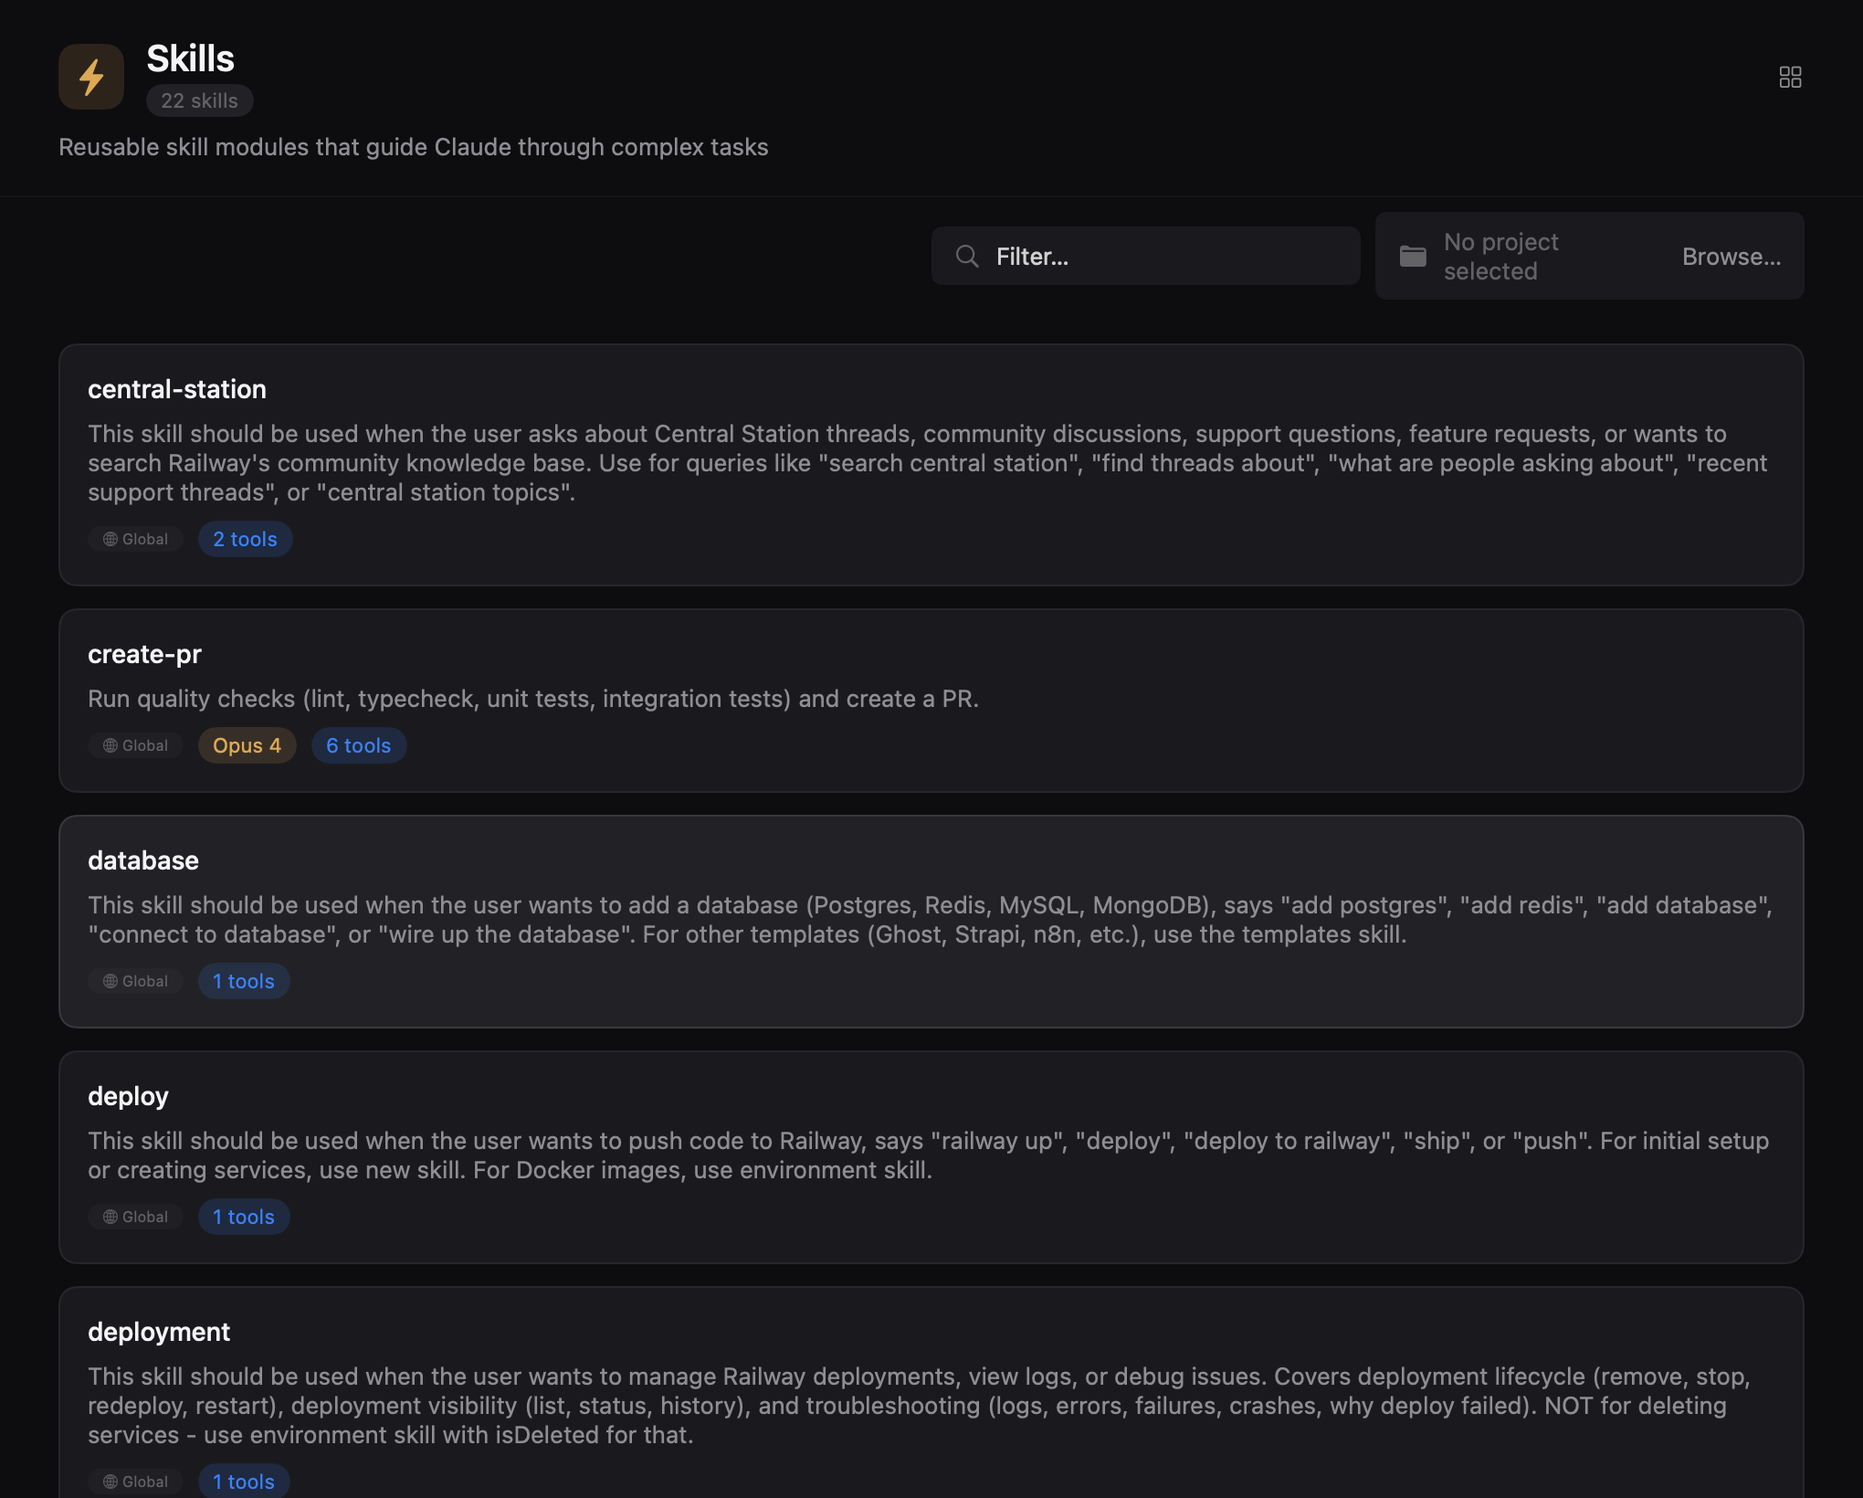
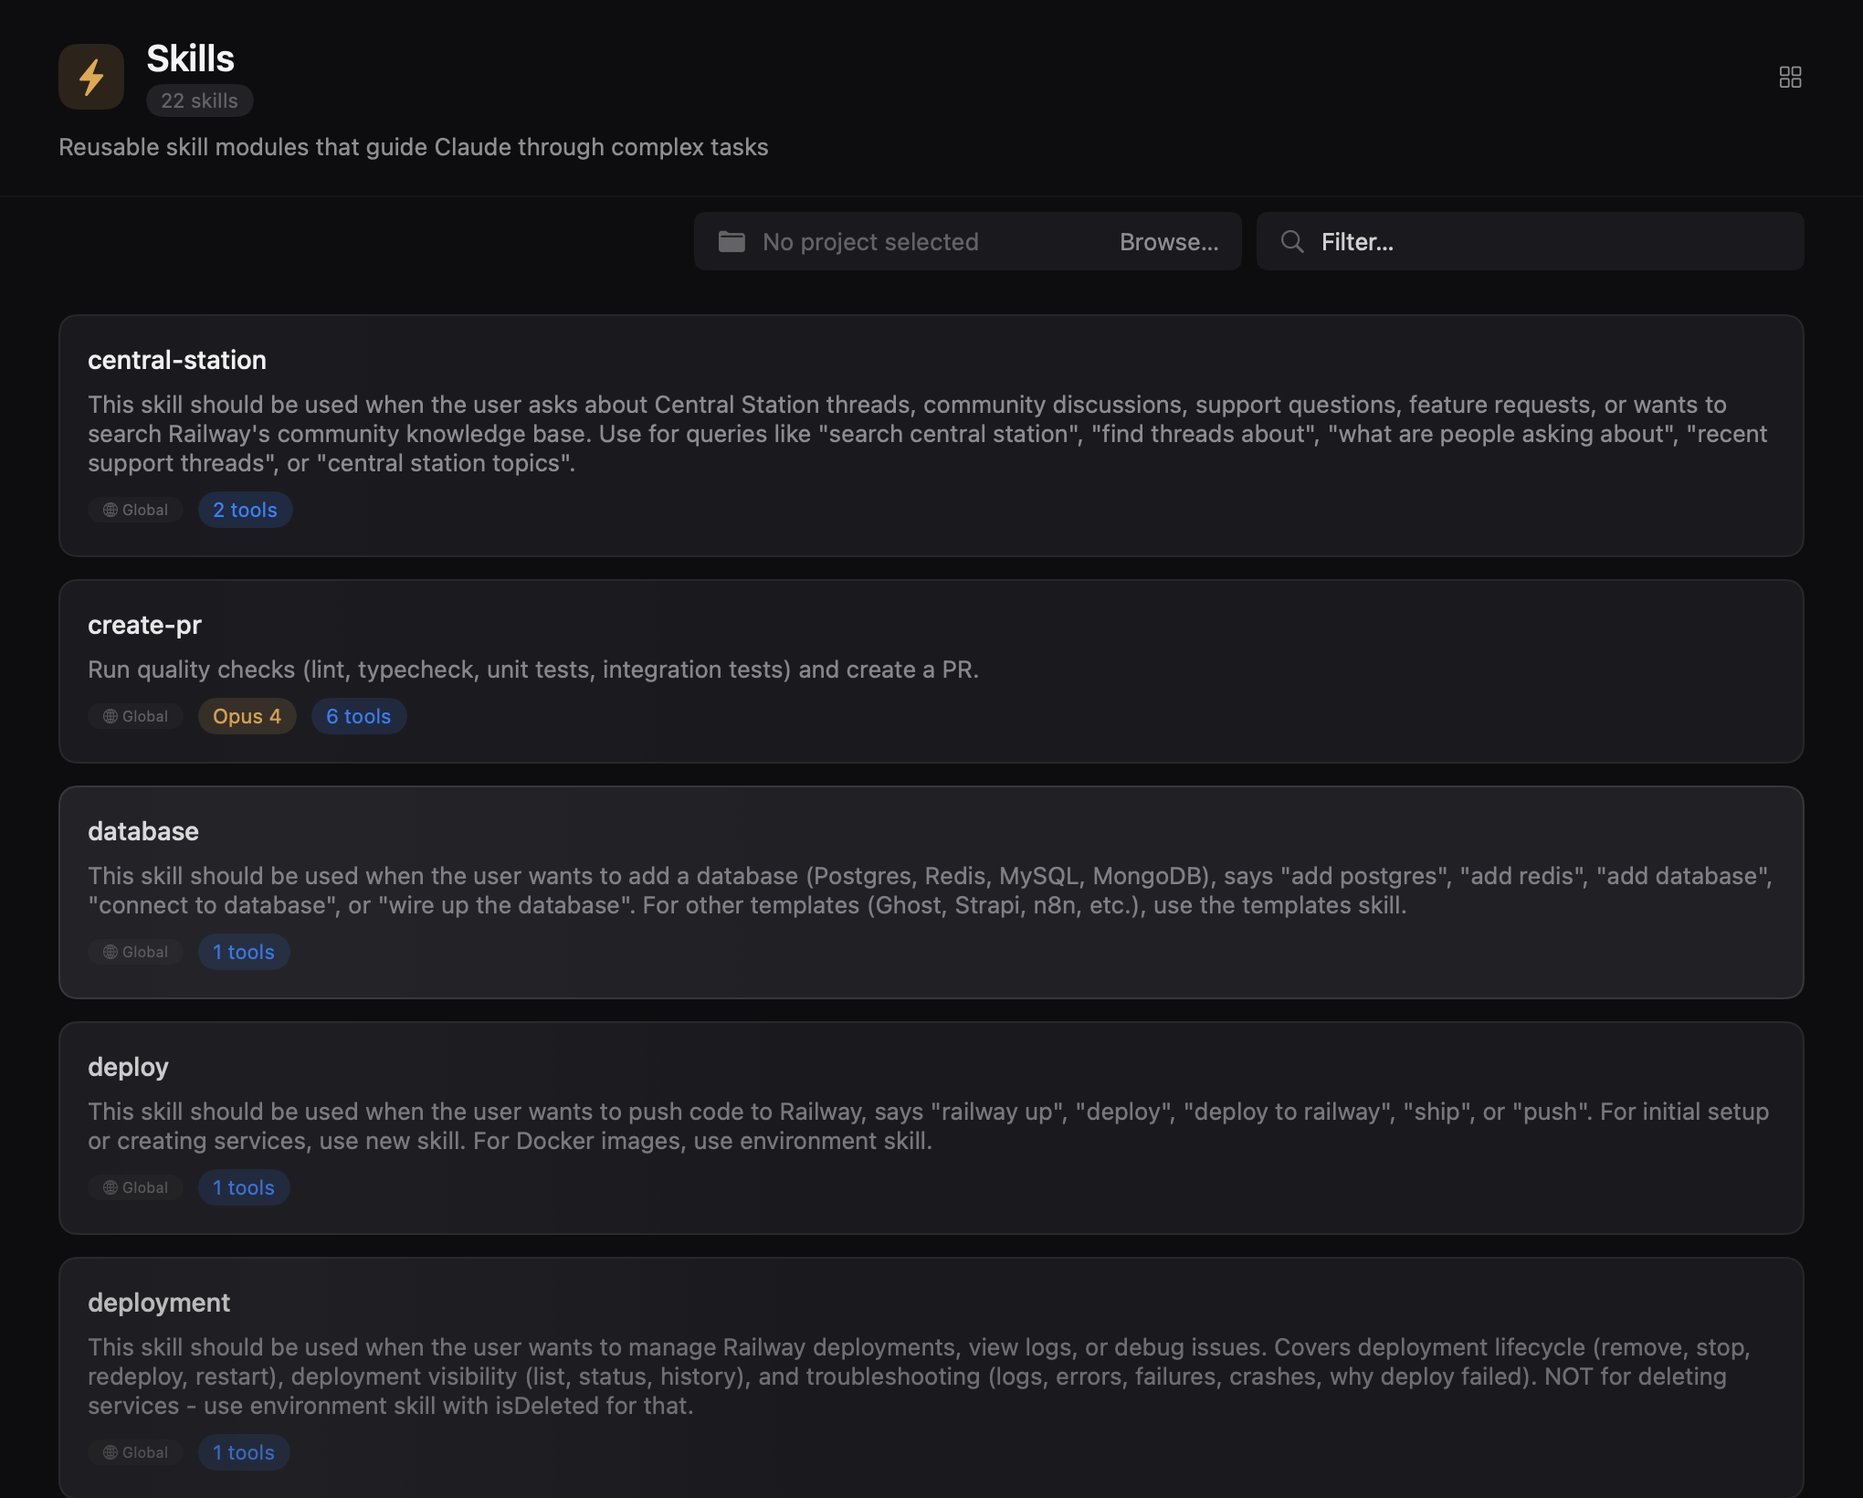
Add filter text highlighting and fix config toolbar layout (#33)
* Add minimum width to filter bar and project picker to prevent squishing

* Apply 25% right-aligned filter bar with minWidth to SubAgents

* Add filter text highlighting and fix card padding alignment

diff --git a/Poirot/Sources/Views/Project/ProjectSessionsView.swift b/Poirot/Sources/Views/Project/ProjectSessionsView.swift
@@ -6,14 +6,53 @@ struct ProjectSessionsView: View {
     private var appState
     @State
     private var isRevealed = false
+    @State
+    private var filterQuery = ""
+
+    private var filteredSessions: [Session] {
+        let q = filterQuery.trimmingCharacters(in: .whitespaces)
+        guard !q.isEmpty else { return project.sessions }
+        return project.sessions
+            .compactMap { session -> (Session, Int)? in
+                let best = max(
+                    HighlightedText.fuzzyMatch(session.title, query: q)?.score ?? 0,
+                    HighlightedText.fuzzyMatch(session.preview ?? "", query: q)?.score ?? 0
+                )
+                return best > 0 ? (session, best) : nil
+            }
+            .sorted { $0.1 > $1.1 }
+            .map(\.0)
+    }
 
     var body: some View {
         VStack(alignment: .leading, spacing: 0) {
             header
-            sessionsContent
+
+            if !project.sessions.isEmpty {
+                HStack(spacing: 0) {
+                    Spacer().frame(maxWidth: .infinity)
+                    Spacer().frame(maxWidth: .infinity)
+                    Spacer().frame(maxWidth: .infinity)
+                    ConfigFilterField(searchQuery: $filterQuery)
+                        .frame(minWidth: 300, maxWidth: .infinity)
+                }
+                .padding(.horizontal, PoirotTheme.Spacing.xxl)
+                .padding(.vertical, PoirotTheme.Spacing.sm)
+            }
+
+            if filteredSessions.isEmpty, !filterQuery.isEmpty {
+                ConfigEmptyState(
+                    icon: "magnifyingglass",
+                    message: "No sessions match \"\(filterQuery)\"",
+                    hint: "Try a different search term"
+                )
+            } else {
+                sessionsContent
+            }
         }
         .background(PoirotTheme.Colors.bgApp)
         .task(id: project.id) {
+            filterQuery = ""
             isRevealed = false
             try? await Task.sleep(for: .milliseconds(50))
             withAnimation(.easeOut(duration: 0.4)) {
@@ -79,7 +118,7 @@ struct ProjectSessionsView: View {
                 ForEach(0 ..< 2, id: \.self) { column in
                     LazyVStack(spacing: PoirotTheme.Spacing.lg) {
                         ForEach(sessionsForColumn(column), id: \.element.id) { index, session in
-                            SessionCard(session: session)
+                            SessionCard(session: session, filterQuery: filterQuery)
                                 .shimmerReveal(
                                     isRevealed: isRevealed,
                                     delay: Double(min(index, 7)) * 0.04,
@@ -96,7 +135,7 @@ struct ProjectSessionsView: View {
     }
 
     private func sessionsForColumn(_ column: Int) -> [(offset: Int, element: Session)] {
-        Array(project.sessions.enumerated()).filter { $0.offset % 2 == column }
+        Array(filteredSessions.enumerated()).filter { $0.offset % 2 == column }
     }
 
     // MARK: - List
@@ -104,8 +143,8 @@ struct ProjectSessionsView: View {
     private var sessionsList: some View {
         ScrollView {
             LazyVStack(alignment: .leading, spacing: PoirotTheme.Spacing.md) {
-                ForEach(Array(project.sessions.enumerated()), id: \.element.id) { index, session in
-                    SessionListRow(session: session)
+                ForEach(Array(filteredSessions.enumerated()), id: \.element.id) { index, session in
+                    SessionListRow(session: session, filterQuery: filterQuery)
                         .shimmerReveal(
                             isRevealed: isRevealed,
                             delay: Double(min(index, 9)) * 0.03,
@@ -124,6 +163,7 @@ struct ProjectSessionsView: View {
 
 private struct SessionCard: View {
     let session: Session
+    var filterQuery: String = ""
     @Environment(AppState.self)
     private var appState
     @State
@@ -138,14 +178,14 @@ private struct SessionCard: View {
             appState.selectedSession = session
         } label: {
             VStack(alignment: .leading, spacing: PoirotTheme.Spacing.sm) {
-                Text(session.title)
+                Text(HighlightedText.fuzzyAttributedString(session.title, query: filterQuery))
                     .font(PoirotTheme.Typography.bodyMedium)
                     .foregroundStyle(PoirotTheme.Colors.textPrimary)
                     .lineLimit(2)
                     .multilineTextAlignment(.leading)
 
                 if let preview = session.preview {
-                    Text(preview)
+                    Text(HighlightedText.fuzzyAttributedString(preview, query: filterQuery))
                         .font(PoirotTheme.Typography.caption)
                         .foregroundStyle(PoirotTheme.Colors.textSecondary)
                         .lineLimit(4)
@@ -168,6 +208,7 @@ private struct SessionCard: View {
 
 private struct SessionListRow: View {
     let session: Session
+    var filterQuery: String = ""
     @Environment(AppState.self)
     private var appState
     @State
@@ -182,13 +223,13 @@ private struct SessionListRow: View {
             appState.selectedSession = session
         } label: {
             VStack(alignment: .leading, spacing: PoirotTheme.Spacing.sm) {
-                Text(session.title)
+                Text(HighlightedText.fuzzyAttributedString(session.title, query: filterQuery))
                     .font(PoirotTheme.Typography.bodyMedium)
                     .foregroundStyle(PoirotTheme.Colors.textPrimary)
                     .lineLimit(1)
 
                 if let preview = session.preview {
-                    Text(preview)
+                    Text(HighlightedText.fuzzyAttributedString(preview, query: filterQuery))
                         .font(PoirotTheme.Typography.caption)
                         .foregroundStyle(PoirotTheme.Colors.textSecondary)
                         .lineLimit(2)

diff --git a/Poirot/Sources/Views/Config/SubAgentsListView.swift b/Poirot/Sources/Views/Config/SubAgentsListView.swift
@@ -35,9 +35,15 @@ struct SubAgentsListView: View {
             )
 
             if !SubAgent.builtIn.isEmpty {
-                ConfigFilterField(searchQuery: $filterQuery)
-                    .padding(.horizontal, PoirotTheme.Spacing.xxxl)
-                    .padding(.vertical, PoirotTheme.Spacing.sm)
+                HStack(spacing: 0) {
+                    Spacer().frame(maxWidth: .infinity)
+                    Spacer().frame(maxWidth: .infinity)
+                    Spacer().frame(maxWidth: .infinity)
+                    ConfigFilterField(searchQuery: $filterQuery)
+                        .frame(minWidth: 300, maxWidth: .infinity)
+                }
+                .padding(.horizontal, PoirotTheme.Spacing.xxxl)
+                .padding(.vertical, PoirotTheme.Spacing.sm)
             }
 
             if filteredAgents.isEmpty, !filterQuery.isEmpty {
@@ -107,7 +113,7 @@ struct SubAgentsListView: View {
 
                 LazyVStack(spacing: PoirotTheme.Spacing.md) {
                     ForEach(Array(filteredAgents.enumerated()), id: \.element.id) { index, agent in
-                        SubAgentCard(agent: agent)
+                        SubAgentCard(agent: agent, filterQuery: filterQuery)
                             .shimmerReveal(
                                 isRevealed: isRevealed,
                                 delay: Double(min(index, 9)) * 0.03,

diff --git a/Poirot/Sources/Views/Config/ModelsListView.swift b/Poirot/Sources/Views/Config/ModelsListView.swift
@@ -70,10 +70,10 @@ struct ModelsListView: View {
             Spacer()
                 .frame(maxWidth: .infinity)
             HStack(spacing: PoirotTheme.Spacing.sm) {
-                ConfigFilterField(searchQuery: $filterQuery)
-                    .frame(maxWidth: .infinity)
                 ConfigProjectPicker()
-                    .frame(maxWidth: .infinity)
+                    .frame(minWidth: 300, maxWidth: .infinity)
+                ConfigFilterField(searchQuery: $filterQuery)
+                    .frame(minWidth: 300, maxWidth: .infinity)
             }
             .frame(maxWidth: .infinity)
         }
@@ -139,6 +139,7 @@ struct ModelsListView: View {
                     ForEach(Array(filteredModels.enumerated()), id: \.element) { index, model in
                         ModelCard(
                             name: model,
+                            filterQuery: filterQuery,
                             isDefault: model == (currentDefault ?? provider.defaultModelName),
                             isProjectDefault: model == projectModel,
                             hasProject: appState.configProjectPath != nil,

diff --git a/Poirot/Sources/Views/Config/MCPServersListView.swift b/Poirot/Sources/Views/Config/MCPServersListView.swift
@@ -93,10 +93,10 @@ struct MCPServersListView: View {
             Spacer()
                 .frame(maxWidth: .infinity)
             HStack(spacing: PoirotTheme.Spacing.sm) {
-                ConfigFilterField(searchQuery: $filterQuery)
-                    .frame(maxWidth: .infinity)
                 ConfigProjectPicker()
-                    .frame(maxWidth: .infinity)
+                    .frame(minWidth: 300, maxWidth: .infinity)
+                ConfigFilterField(searchQuery: $filterQuery)
+                    .frame(minWidth: 300, maxWidth: .infinity)
             }
             .frame(maxWidth: .infinity)
         }
@@ -159,6 +159,7 @@ struct MCPServersListView: View {
                     ForEach(Array(filteredServers.enumerated()), id: \.element.id) { index, server in
                         MCPServerCard(
                             server: server,
+                            filterQuery: filterQuery,
                             onOpenInEditor: { openServerInEditor(server) },
                             onShowInFinder: { showSettingsInFinder() },
                             onRemove: { removeServer(server) }

diff --git a/Poirot/Sources/Views/Config/CommandsListView.swift b/Poirot/Sources/Views/Config/CommandsListView.swift
@@ -175,10 +175,10 @@ struct CommandsListView: View {
             Spacer()
                 .frame(maxWidth: .infinity)
             HStack(spacing: PoirotTheme.Spacing.sm) {
-                ConfigFilterField(searchQuery: $filterQuery)
-                    .frame(maxWidth: .infinity)
                 ConfigProjectPicker()
-                    .frame(maxWidth: .infinity)
+                    .frame(minWidth: 300, maxWidth: .infinity)
+                ConfigFilterField(searchQuery: $filterQuery)
+                    .frame(minWidth: 300, maxWidth: .infinity)
             }
             .frame(maxWidth: .infinity)
         }
@@ -228,7 +228,7 @@ struct CommandsListView: View {
         ScrollView {
             LazyVStack(spacing: PoirotTheme.Spacing.md) {
                 ForEach(Array(filteredCommands.enumerated()), id: \.element.id) { index, command in
-                    CommandCard(command: command) {
+                    CommandCard(command: command, filterQuery: filterQuery) {
                         selectCommand(command)
                     }
                     .shimmerReveal(

diff --git a/Poirot/Sources/Views/Config/OutputStylesListView.swift b/Poirot/Sources/Views/Config/OutputStylesListView.swift
@@ -161,10 +161,10 @@ struct OutputStylesListView: View {
             Spacer()
                 .frame(maxWidth: .infinity)
             HStack(spacing: PoirotTheme.Spacing.sm) {
-                ConfigFilterField(searchQuery: $filterQuery)
-                    .frame(maxWidth: .infinity)
                 ConfigProjectPicker()
-                    .frame(maxWidth: .infinity)
+                    .frame(minWidth: 300, maxWidth: .infinity)
+                ConfigFilterField(searchQuery: $filterQuery)
+                    .frame(minWidth: 300, maxWidth: .infinity)
             }
             .frame(maxWidth: .infinity)
         }
@@ -214,7 +214,7 @@ struct OutputStylesListView: View {
         ScrollView {
             LazyVStack(spacing: PoirotTheme.Spacing.md) {
                 ForEach(Array(filteredStyles.enumerated()), id: \.element.id) { index, style in
-                    OutputStyleCard(style: style) {
+                    OutputStyleCard(style: style, filterQuery: filterQuery) {
                         selectStyle(style)
                     }
                     .shimmerReveal(

diff --git a/Poirot/Sources/Views/Config/SkillsListView.swift b/Poirot/Sources/Views/Config/SkillsListView.swift
@@ -163,10 +163,10 @@ struct SkillsListView: View {
             Spacer()
                 .frame(maxWidth: .infinity)
             HStack(spacing: PoirotTheme.Spacing.sm) {
-                ConfigFilterField(searchQuery: $filterQuery)
-                    .frame(maxWidth: .infinity)
                 ConfigProjectPicker()
-                    .frame(maxWidth: .infinity)
+                    .frame(minWidth: 300, maxWidth: .infinity)
+                ConfigFilterField(searchQuery: $filterQuery)
+                    .frame(minWidth: 300, maxWidth: .infinity)
             }
             .frame(maxWidth: .infinity)
         }
@@ -216,7 +216,7 @@ struct SkillsListView: View {
         ScrollView {
             LazyVStack(spacing: PoirotTheme.Spacing.md) {
                 ForEach(Array(filteredSkills.enumerated()), id: \.element.id) { index, skill in
-                    SkillCard(skill: skill) {
+                    SkillCard(skill: skill, filterQuery: filterQuery) {
                         selectSkill(skill)
                     }
                     .shimmerReveal(

diff --git a/PoirotTests/Screenshots/ScreenshotTests_Todos.swift b/PoirotTests/Screenshots/ScreenshotTests_Todos.swift
@@ -17,7 +17,7 @@ struct ScreenshotTests_Todos {
             size: ScreenshotSize.mainContent,
             named: "testTodosList",
             record: isRecording,
-            delay: 1
+            delay: 2
         )
     }
 
@@ -32,7 +32,7 @@ struct ScreenshotTests_Todos {
             size: ScreenshotSize.fullApp,
             named: "testTodosFullApp",
             record: isRecording,
-            delay: 1
+            delay: 2
         )
     }
 
@@ -52,7 +52,7 @@ struct ScreenshotTests_Todos {
             size: ScreenshotSize.fullApp,
             named: "testTodosFullAppSolarized",
             record: isRecording,
-            delay: 1
+            delay: 2
         )
     }
 
@@ -72,7 +72,7 @@ struct ScreenshotTests_Todos {
             size: ScreenshotSize.fullApp,
             named: "testTodosFullAppHighContrast",
             record: isRecording,
-            delay: 1
+            delay: 2
         )
     }
 }

diff --git a/Poirot/Sources/Views/Config/PluginsListView.swift b/Poirot/Sources/Views/Config/PluginsListView.swift
@@ -44,7 +44,7 @@ struct PluginsListView: View {
                     Spacer().frame(maxWidth: .infinity)
                     Spacer().frame(maxWidth: .infinity)
                     ConfigFilterField(searchQuery: $filterQuery)
-                        .frame(maxWidth: .infinity)
+                        .frame(minWidth: 300, maxWidth: .infinity)
                 }
                 .padding(.horizontal, PoirotTheme.Spacing.xxxl)
                 .padding(.vertical, PoirotTheme.Spacing.sm)
@@ -141,6 +141,7 @@ struct PluginsListView: View {
                     ForEach(Array(filteredPlugins.enumerated()), id: \.element.id) { index, plugin in
                         PluginCard(
                             plugin: plugin,
+                            filterQuery: filterQuery,
                             onToggle: { togglePlugin(plugin) },
                             onRemove: { removePlugin(plugin) }
                         )

diff --git a/Poirot/Sources/Views/Todos/TodosOverviewView.swift b/Poirot/Sources/Views/Todos/TodosOverviewView.swift
@@ -71,7 +71,7 @@ struct TodosOverviewView: View {
                     Spacer().frame(maxWidth: .infinity)
                     Spacer().frame(maxWidth: .infinity)
                     ConfigFilterField(searchQuery: $filterQuery)
-                        .frame(maxWidth: .infinity)
+                        .frame(minWidth: 300, maxWidth: .infinity)
                 }
                 .padding(.horizontal, PoirotTheme.Spacing.xxxl)
                 .padding(.vertical, PoirotTheme.Spacing.sm)

diff --git a/Poirot/Sources/Views/Plans/PlansListView.swift b/Poirot/Sources/Views/Plans/PlansListView.swift
@@ -82,7 +82,7 @@ struct PlansListView: View {
                     Spacer().frame(maxWidth: .infinity)
                     Spacer().frame(maxWidth: .infinity)
                     ConfigFilterField(searchQuery: $filterQuery)
-                        .frame(maxWidth: .infinity)
+                        .frame(minWidth: 300, maxWidth: .infinity)
                 }
                 .padding(.horizontal, PoirotTheme.Spacing.xxxl)
                 .padding(.vertical, PoirotTheme.Spacing.sm)
